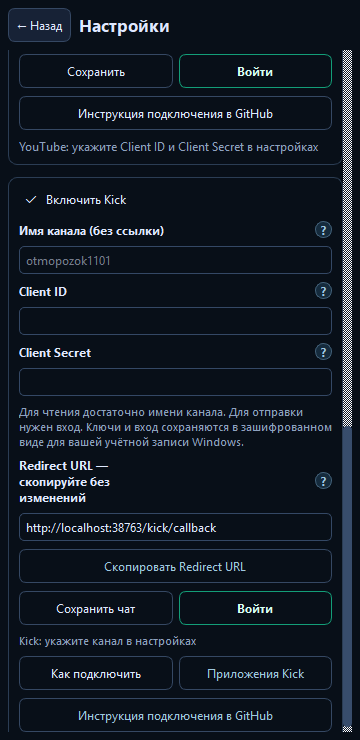
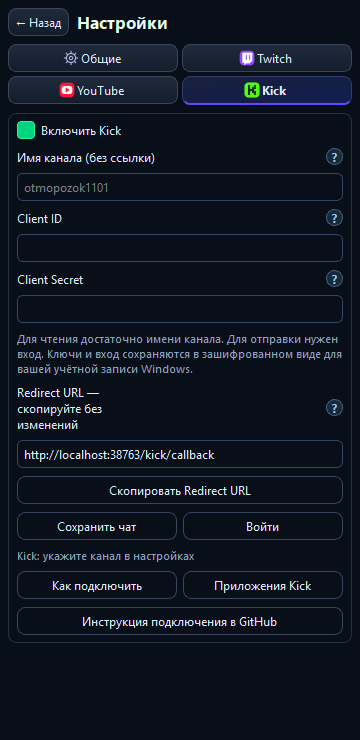
Show settings and display variations in screenshot gallery

Changed region(s): [[0.0, 0.0, 0.9778, 0.9946], [0.2139, 0.9635, 0.7639, 0.9946], [0.55, 0.9014, 0.8556, 0.9324]]

diff --git a/README.md b/README.md
@@ -10,9 +10,17 @@
 
 **Twitch, YouTube и Kick с личными приложениями — версия 0.4.2.** Для каждого используемого сервиса создаётся своё приложение по [нашей инструкции](docs/REGISTER_APPS_RU.md).
 
-![OZK Chat](docs/screenshots/chat-ru.png)
+## Как выглядит
 
-[Узкая панель](docs/screenshots/chat-narrow-ru.png) · [Настройки](docs/screenshots/settings-ru.png) · [English](docs/README_EN.md)
+Все снимки ниже сделаны с тестовыми сообщениями и пустыми полями входа. Личных данных и ключей на них нет.
+
+| Чат Twitch и YouTube | Общие настройки |
+| --- | --- |
+| ![Чат Twitch и YouTube](docs/screenshots/chat-ru.png) | ![Общие настройки](docs/screenshots/settings-ru.png) |
+| Подключение Kick | Сообщение Kick в общем чате |
+| ![Настройки Kick](docs/screenshots/kick-settings-ru-360.png) | ![Kick в чате](docs/screenshots/kick-chat-ru-360.png) |
+
+[Узкая панель](docs/screenshots/chat-narrow-ru.png) · [English](docs/README_EN.md)
 
 ## Что удобно
 
